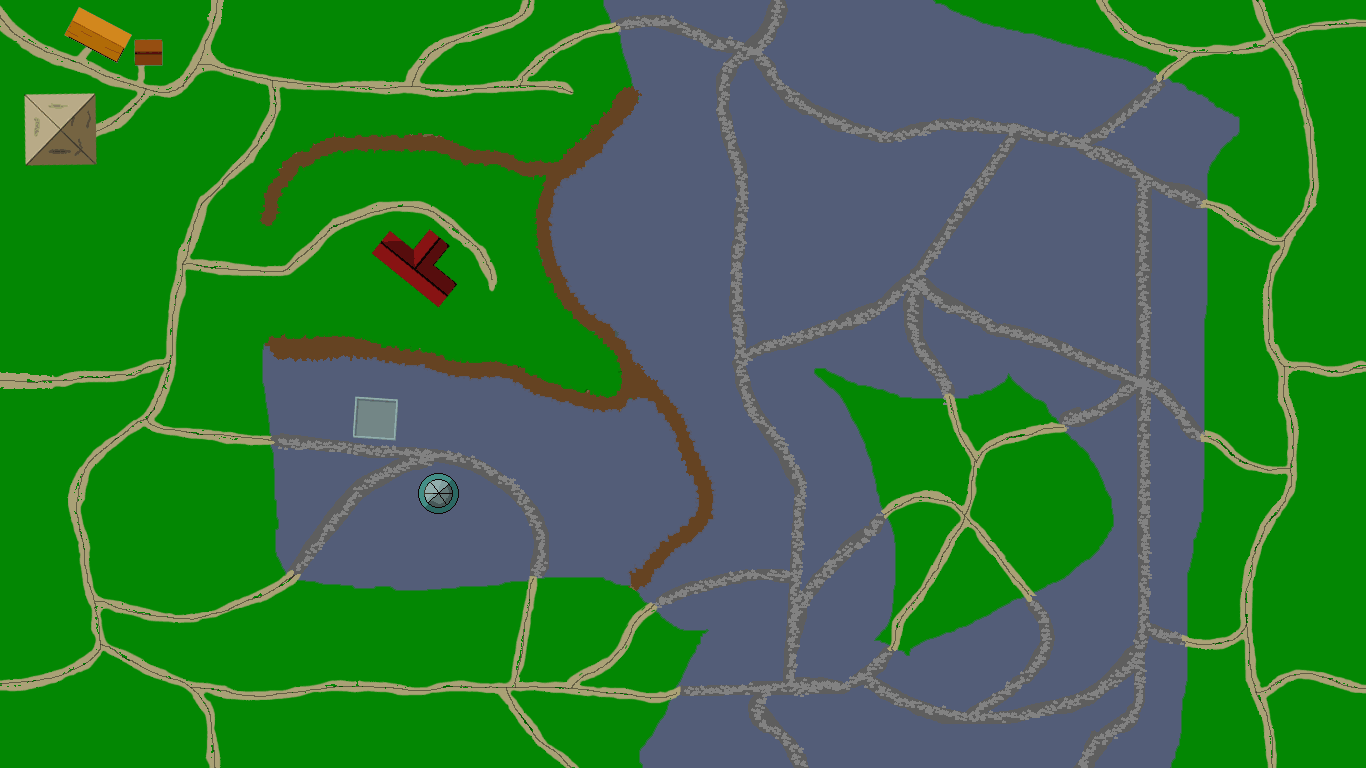
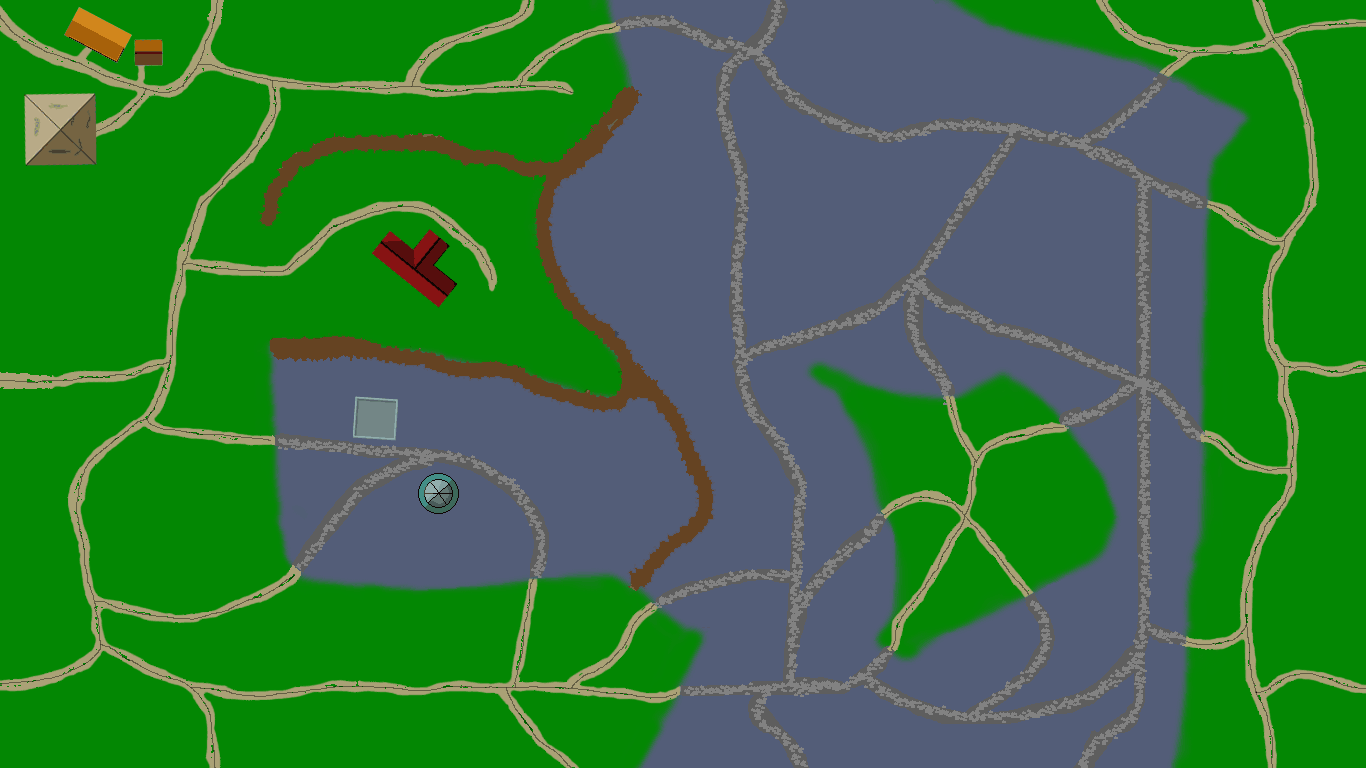
Smoothing map

diff --git a/src/main/java/org/tiwindetea/animewarfare/gui/ZonedMap.java b/src/main/java/org/tiwindetea/animewarfare/gui/ZonedMap.java
@@ -77,15 +77,16 @@ public class ZonedMap extends Pane {
                 173.0, 164.0,
                 225.0, 180.0,
                 253.0, 216.0,
-                266.0, 242.0,
+                266.0, 240.0,
+                265, 250,
                 268.0, 344.0,
-                280.0, 519.0,
+                280.0, 525.0,
                 0, 562.0,
                 0, 214.0
         ));
         polygons.add(new Polygon(               // 3
                 5.0, 562.0,
-                278.0, 522.0,
+                283.0, 522.0,
                 283.0, 551.0,
                 303.0, 576.0,
                 413.0, 589.0,
@@ -97,8 +98,6 @@ public class ZonedMap extends Pane {
                 445.0, 768.0,
                 0, 768.0,
                 0, 562.0
-
-
         ));
         polygons.add(new Polygon(               // 4
                 266.0, 246.0,
@@ -114,8 +113,8 @@ public class ZonedMap extends Pane {
                 575.0, 395.0,
                 508.0, 372.0,
                 386.0, 353.0,
-                273.0, 350.0,
-                267.0, 240.0
+                269.0, 350.0,
+                266.0, 240.0
         ));
         polygons.add(new Polygon(               //  5
                 414.0, 588.0,
@@ -136,8 +135,8 @@ public class ZonedMap extends Pane {
         polygons.add(new Polygon(               // 6
                 812.0, 357.0,
                 880.0, 387.0,
-                953.0, 399.0,
-                1011.0, 371.0,
+                950.0, 397.0,
+                1011.0, 363.0,
                 1040.0, 395.0,
                 1106.0, 471.0,
                 1119.0, 518.0,
@@ -166,7 +165,7 @@ public class ZonedMap extends Pane {
                 1300.0, 193.0,
                 1366.0, 219.0,
                 1366.0, 515.0,
-                1197.0, 515.0,
+                1200.0, 519.0,
                 1208.0, 163.0
 
         ));
@@ -184,9 +183,7 @@ public class ZonedMap extends Pane {
                 608.0, 572.0,
                 416.0, 588.0,
                 305.0, 579.0,
-                283.0, 553.0,
-                272.0, 346.0
-
+                283.0, 553.0
         ));
         polygons.add(new Polygon(               // 10
                 555.0, 179.0,
@@ -210,24 +207,23 @@ public class ZonedMap extends Pane {
                 538.0, 222.0
         ));
         polygons.add(new Polygon(               // 11
-                710.0, 630.0,
+                706.0, 629.0,
                 877.0, 641.0,
                 920.0, 669.0,
-                944.0, 704.0,
+                944.0, 696.0,
                 967.0, 744.0,
                 964.0, 768.0,
-                642.0, 768.0,
-                710.0, 630.0
+                642.0, 768.0
         ));
         polygons.add(new Polygon(               // 12
                 912.0, 658.0,
                 930.0, 640.0,
-                1102.0, 559.0,
+                1098, 558.0,
                 1118.0, 521.0,
-                1199.0, 516.0,
-                1182.0, 576.0,
+                1202.0, 519.0,
+                1183.0, 581.0,
                 1185.0, 660.0,
-                1167.0, 768.0,
+                1173.0, 768.0,
                 963.0, 768.0,
                 967.0, 748.0,
                 944.0, 696.0,
@@ -242,12 +238,12 @@ public class ZonedMap extends Pane {
                 1117.0, 520.0,
                 1104.0, 473.0,
                 1041.0, 395.0,
-                1006.0, 372.0,
+                1011.0, 363.0,
                 1032.0, 285.0,
                 1012.0, 243.0
         ));
         polygons.add(new Polygon(               // 14
-                774.0, 161.0,
+                770.0, 161.0,
                 949.0, 80.0,
                 988.0, 26.0,
                 1146.0, 64.0,
@@ -260,7 +256,7 @@ public class ZonedMap extends Pane {
                 955.0, 207.0,
                 916.0, 201.0,
                 829.0, 210.0,
-                781.0, 190.0
+                775.0, 188.0
         ));
         polygons.add(new Polygon(               // 15
                 559.0, 174.0,
@@ -280,10 +276,9 @@ public class ZonedMap extends Pane {
                 950.0, 397.0,
                 879.0, 387.0,
                 812.0, 356.0,
-                790.0, 300.0,
+                785.0, 301.0,
                 625.0, 194.0,
                 557.0, 177.0
-
         ));
         polygons.add(new Polygon(               // 16
                 608.0, 0,
@@ -347,15 +342,15 @@ public class ZonedMap extends Pane {
     private static final class UnitRectangle extends Parent {
 
         final double x, y;
-        static final int WIDTH = 32;
-        static final int HEIGHT = 32;
+        static final int WIDTH = 42;
+        static final int HEIGHT = 42;
 
         private GUnit unit;
 
         public UnitRectangle(double x, double y) {
             this.x = x;
             this.y = y;/*
-            Polygon p = new Polygon(x, y, x, y + 32, x + 32, y + 32, x + 32, y);
+            Polygon p = new Polygon(x, y, x, y + WIDTH, x + WIDTH, y + WIDTH, x + WIDTH, y);
             p.setFill(Color.TRANSPARENT);
             p.setStroke(Color.RED);
             p.setMouseTransparent(true);
@@ -421,12 +416,12 @@ public class ZonedMap extends Pane {
             for (Polygon polygon : polygons) {
                 List<UnitRectangle> rectList = new ArrayList<>(20);
                 Bounds bounds = polygon.getLayoutBounds();
-                for (double y = bounds.getMinY(); y < bounds.getMaxY(); y += UnitRectangle.HEIGHT) {
-                    for (double x = bounds.getMinX(); x < bounds.getMaxX(); x += UnitRectangle.WIDTH) {
-                        if (polygon.contains(x - 4, y - 4)
-                                && polygon.contains(x + UnitRectangle.WIDTH + 4, y - 4)
-                                && polygon.contains(x - 4, y + UnitRectangle.HEIGHT + 4)
-                                && polygon.contains(x + UnitRectangle.WIDTH + 4, y + UnitRectangle.HEIGHT + 4)
+                for (double y = bounds.getMinY() + 3; y < bounds.getMaxY(); y += UnitRectangle.HEIGHT) {
+                    for (double x = bounds.getMinX() + 3; x < bounds.getMaxX(); x += UnitRectangle.WIDTH) {
+                        if (polygon.contains(x - 2, y - 2)
+                                && polygon.contains(x + UnitRectangle.WIDTH + 2, y - 2)
+                                && polygon.contains(x - 2, y + UnitRectangle.HEIGHT + 2)
+                                && polygon.contains(x + UnitRectangle.WIDTH + 2, y + UnitRectangle.HEIGHT + 2)
                                 ) {
 
                             rectList.add(new UnitRectangle(x, y));
@@ -441,9 +436,9 @@ public class ZonedMap extends Pane {
         }
 
         public void put(int zoneID, GUnit unit) {
-            UnitRectangle unitRectangle = this.map.get(new Integer(zoneID)).stream()
+            UnitRectangle unitRectangle = this.map.get(new Integer(zoneID)).parallelStream()
                     .filter(ur -> ur.unit == null)
-                    .findFirst().orElse(null);
+                    .findAny().orElse(null);
             if (unitRectangle != null) {
                 unitRectangle.setUnit(unit);
             } else {

diff --git a/src/main/java/org/tiwindetea/animewarfare/gui/GUnit.java b/src/main/java/org/tiwindetea/animewarfare/gui/GUnit.java
@@ -14,7 +14,7 @@ public class GUnit extends Parent {
         //todo
         this.ID = 0;
         Random r = new Random();
-        getChildren().add(new Circle(10, Color.rgb(r.nextInt(256), r.nextInt(256), r.nextInt(256))));
+        getChildren().add(new Circle(18, Color.rgb(r.nextInt(256), r.nextInt(256), r.nextInt(256))));
     }
 
     public int getID() {
